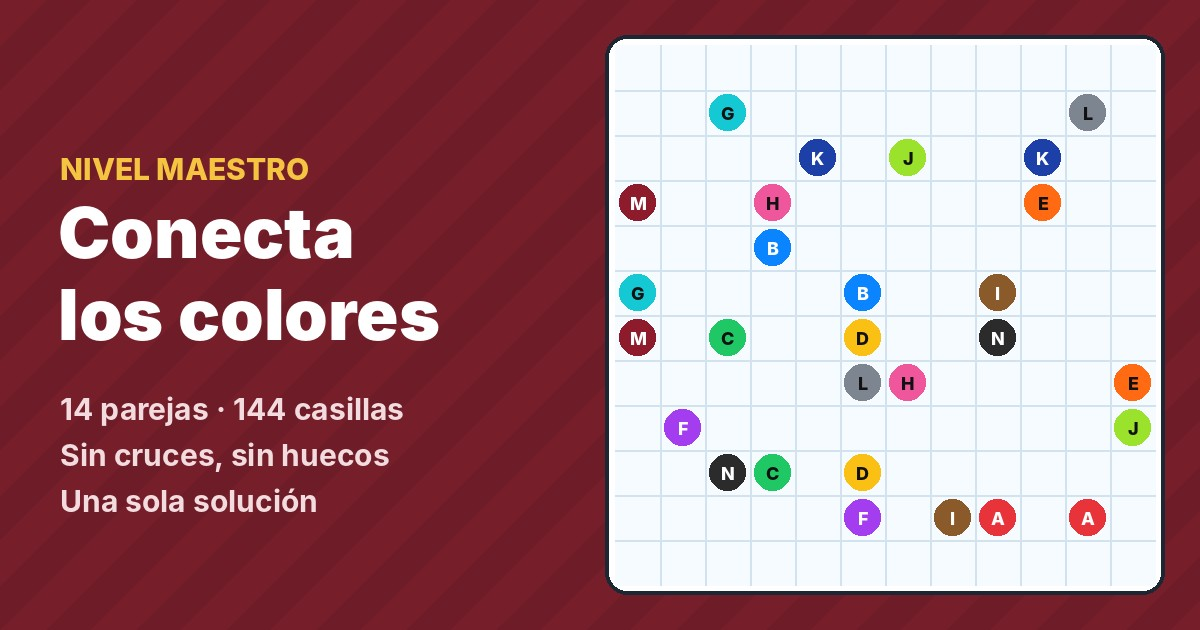
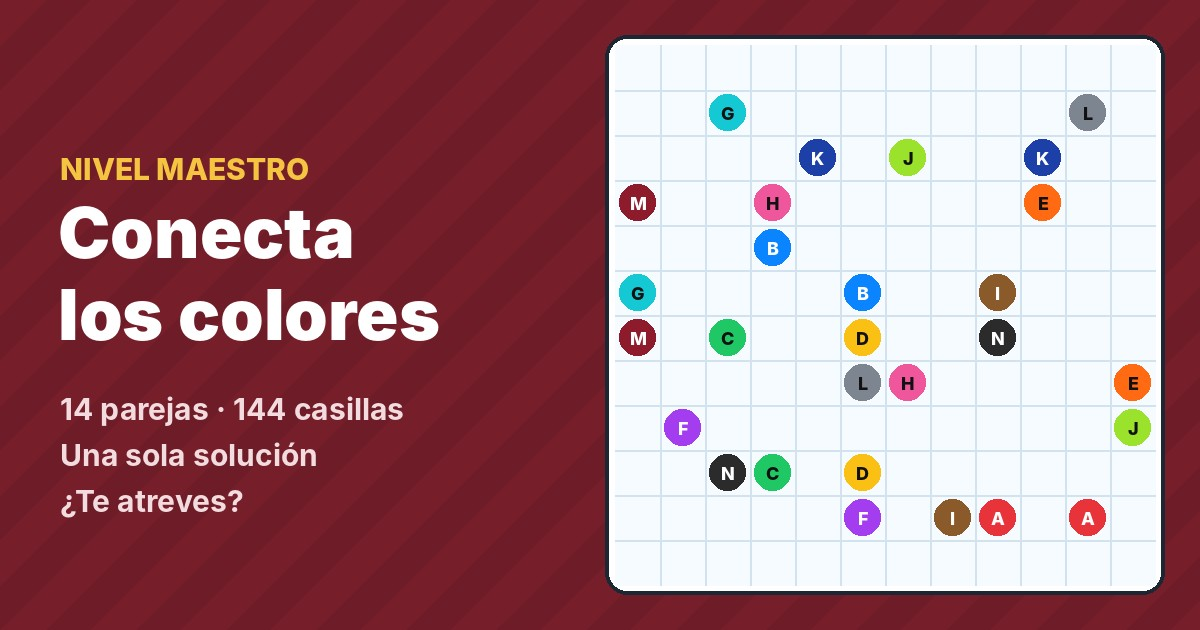
Conecta los colores: textos de estado y tarjeta sin pistas
Claude-Session: https://claude.ai/code/session_01Qmn6paRD3GAWxEvtG59Ubw

Changed region(s): [[0.0308, 0.6937, 0.3392, 0.754], [0.0308, 0.7841, 0.2775, 0.8143]]

diff --git a/juego/conecta-colores/index.html b/juego/conecta-colores/index.html
@@ -7,9 +7,9 @@
 <meta name="description" content="Une las parejas de letras sin cruzar caminos y llenando todo el tablero. Dos niveles, una sola solución en cada uno.">
 <meta property="og:type" content="website">
 <meta property="og:title" content="Conecta los colores · nivel Maestro">
-<meta property="og:description" content="Nuevo nivel Maestro: 14 parejas, 144 casillas y una sola solución. ¿Lo llenas entero?">
+<meta property="og:description" content="Nuevo nivel Maestro: 14 parejas y una sola solución. ¿Te atreves?">
 <meta property="og:url" content="https://spyder-cripto.github.io/problema-del-dia/juego/conecta-colores/">
-<meta property="og:image" content="https://spyder-cripto.github.io/problema-del-dia/juego/conecta-colores/preview.jpg?v=2">
+<meta property="og:image" content="https://spyder-cripto.github.io/problema-del-dia/juego/conecta-colores/preview.jpg?v=3">
 <meta property="og:image:width" content="1200">
 <meta property="og:image:height" content="630">
 <meta name="twitter:card" content="summary_large_image">
